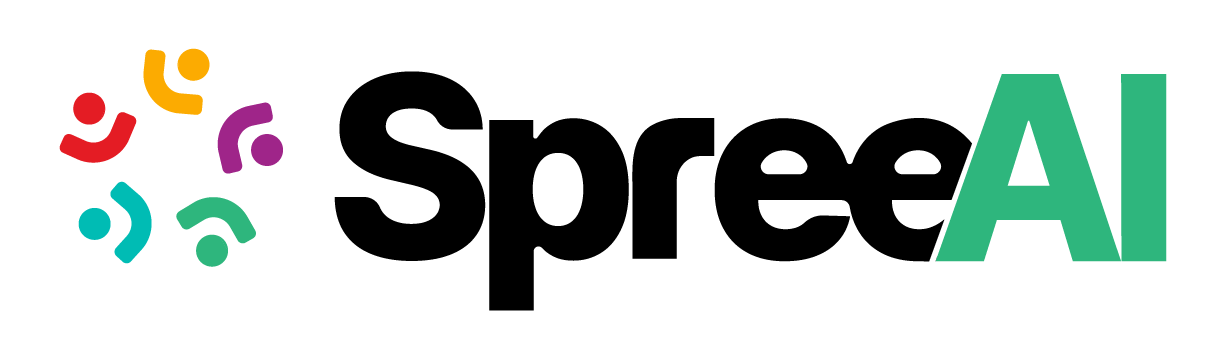
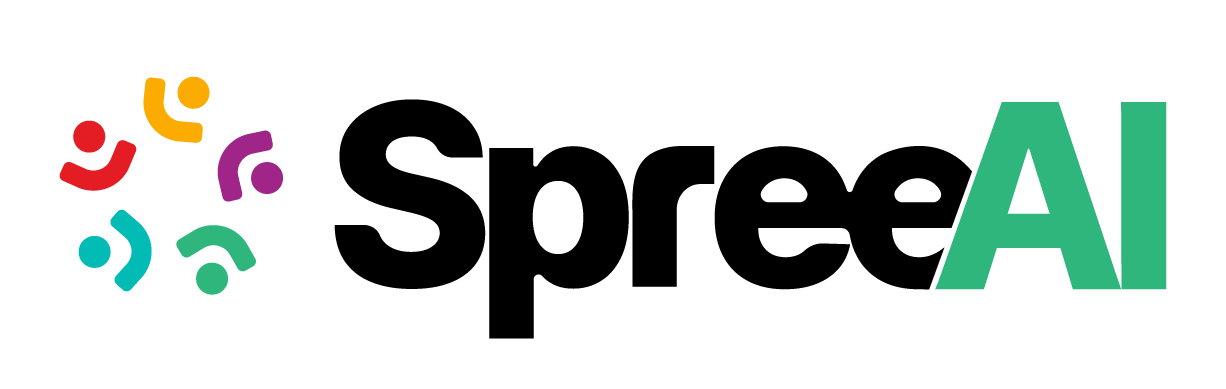
Updated sponsors

diff --git a/index.html b/index.html
@@ -387,8 +387,9 @@ function topFunction() {
     <center>
     <table style="width:100%">
         <tr>
+            <td> <center> <img alt src="data/Apple_Logo_Black.png" height="170"/> </center></td>
             <td> <center> <img alt src="data/meshcapade.png" height="120"/> </center></td>
-            <td> <center> <img alt src="data/spreeai.png" height="100"/> </center></td>
+            <td> <center> <img alt src="data/spreeai.png" height="90"/> </center></td>
         </tr>
     </table>
     </center>
